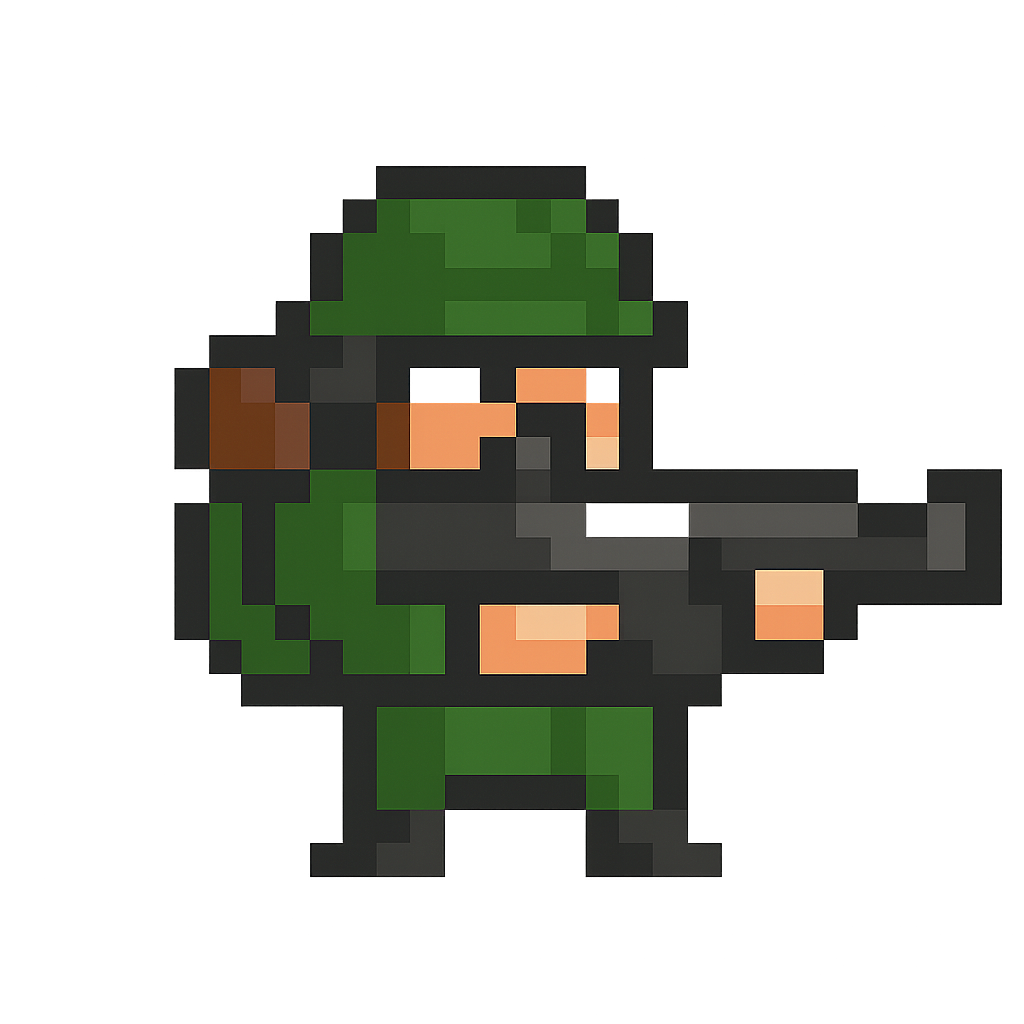
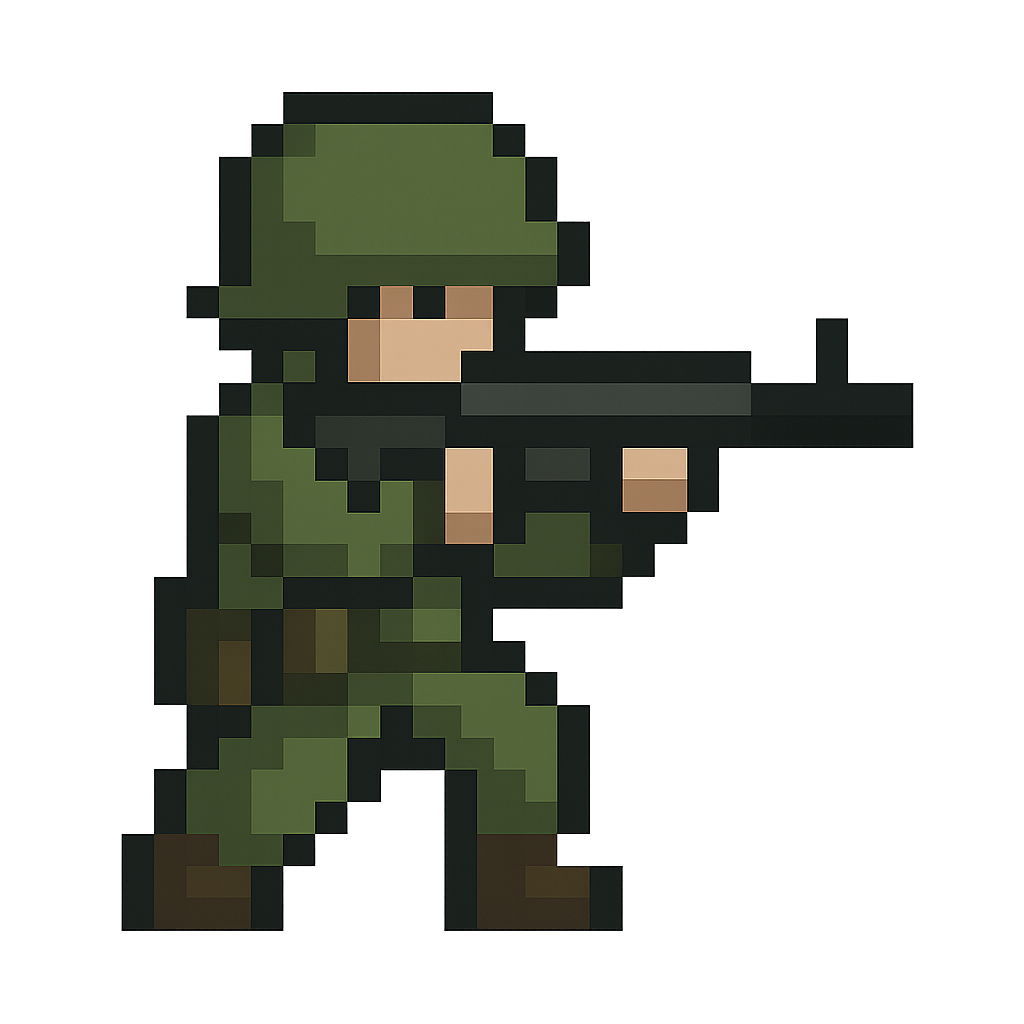
monster basic movement and image

diff --git a/src/App.jsx b/src/App.jsx
@@ -1,9 +1,9 @@
 import EconomyPanel from './component/EconomyPanel.jsx';
-import { useState } from 'react';
+import { useState, useEffect  } from 'react';
 import GameMap from './component/GameMap.jsx';
 import Barracks from './logic/objects/buildings/Barracks.js';
-import Infantry from './logic/objects/units/Infantry.js';
 import SelectionPanel from './component/SelectionPanel.jsx';
+import Monster from './logic/objects/units/Monster';
 
 export default function App() {
   const [economy] = useState({
@@ -15,12 +15,53 @@ export default function App() {
   });
   
   const [selectedObject, setSelectedObject] = useState(null);
-
-
-
   const [gameObjects, setGameObjects] = useState([
     new Barracks(200, 200),
   ]);
+
+  const [mapSize, setMapSize] = useState({ width: 800, height: 600 }); // fallback
+
+  <GameMap
+      gameObjects={gameObjects}
+      onSelect={setSelectedObject}
+      reportSize={(width, height) => setMapSize({ width, height })}
+  />
+
+  useEffect(() => {
+      const spawnMonster = () => {
+          const monster = new Monster();
+          const spawned = monster.spawn(gameObjects, mapSize.width, mapSize.height);
+          if (spawned) {
+              setGameObjects(prev => [...prev, monster]);
+              console.log('Monster spawned:', monster);
+          }
+      };
+
+      const interval = setInterval(() => {
+          spawnMonster();
+      }, 5000);
+
+      return () => clearInterval(interval);
+  }, [mapSize]);
+
+
+  // Moving Monsters periodically
+  useEffect(() => {
+      const interval = setInterval(() => {
+          let moved = false;
+          gameObjects.forEach(obj => {
+              if (obj.type === 'monster') {
+                  obj.move(gameObjects);
+                  moved = true;
+              }
+          });
+          if (moved) {
+              setGameObjects([...gameObjects]);
+          }
+      }, 50);
+
+      return () => clearInterval(interval);
+  }, [gameObjects]);
 
 
 

diff --git a/src/component/GameMap.jsx b/src/component/GameMap.jsx
@@ -1,7 +1,8 @@
 import React, { useRef, useEffect } from 'react';
 
-const GameMap = ({ gameObjects, onSelect }) => {
+const GameMap = ({ gameObjects, onSelect, reportSize }) => { // <-- added reportSize
   const canvasRef = useRef();
+  const imageCacheRef = useRef({});
 
   useEffect(() => {
     const canvas = canvasRef.current;
@@ -11,16 +12,21 @@ const GameMap = ({ gameObjects, onSelect }) => {
     canvas.width = canvas.offsetWidth;
     canvas.height = canvas.offsetHeight;
 
+    // ✅ Report the current canvas size to App.jsx
+    reportSize?.(canvas.width, canvas.height);
+
     // Draw game objects
     const draw = async () => {
       ctx.clearRect(0, 0, canvas.width, canvas.height);
 
       for (const obj of gameObjects) {
-        const img = new Image();
-        img.src = obj.image;
-        await new Promise((resolve) => {
-          img.onload = resolve;
-        });
+        if (!imageCacheRef.current[obj.image]) {
+            const img = new Image();
+            img.src = obj.image;
+            await new Promise((resolve) => { img.onload = resolve; });
+            imageCacheRef.current[obj.image] = img;
+        }
+        const img = imageCacheRef.current[obj.image];
         ctx.drawImage(img, obj.x, obj.y, obj.width, obj.height);
       }
     };
@@ -50,7 +56,7 @@ const GameMap = ({ gameObjects, onSelect }) => {
 
     canvas.addEventListener('click', handleClick);
     return () => canvas.removeEventListener('click', handleClick);
-  }, [gameObjects, onSelect]);
+  }, [gameObjects, onSelect, reportSize]); // <-- added reportSize here to rerun on resize
 
   return <canvas ref={canvasRef} className="w-full h-full" />;
 };
